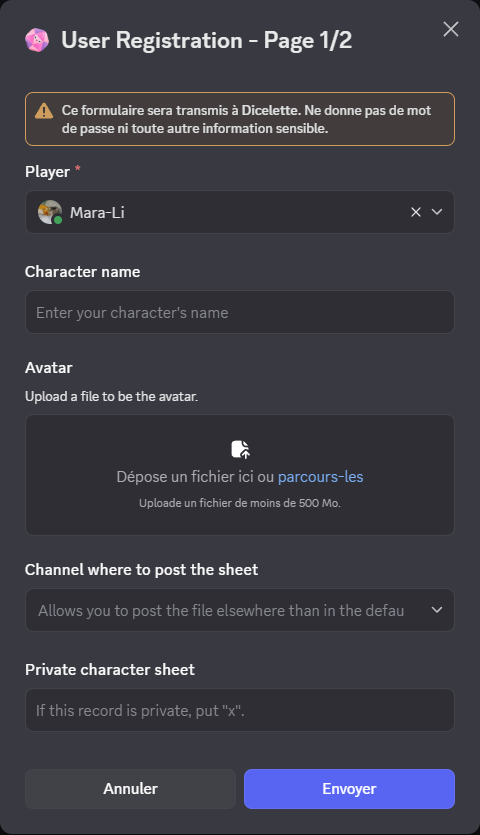
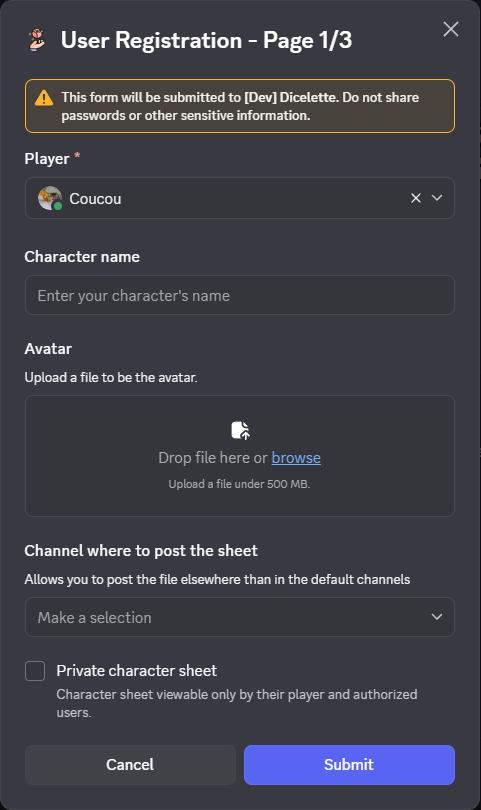
feat: add functionality to replace unknown attributes in rolls

diff --git a/en/docusaurus-plugin-content-docs/current/config/user settings/attributes.md b/en/docusaurus-plugin-content-docs/current/config/user settings/attributes.md
@@ -101,5 +101,27 @@ By default, the data is merged. If two attributes have the same name, the import
 During import, the attributes are validated and only those that comply will be added.
 
 ![](../../assets/attributes/import_1.png)
-
 ![](../../assets/attributes/import_2.png)
+
+# Replace unknown attributes
+
+Allow to replace the unknown attributes in the rolls by a specific value.
+
+:::usage
+**`/user_config attributes replace_unknown (value)`**
+- `value`: Value to replace the unknown attributes
+:::
+
+To disable the replacement, simply reuse the command without providing a value.
+
+It is possible to use dice or other attributes, as long as they are recognized in future rolls.
+
+:::info
+This settings is not verified when saving.
+:::
+
+:::warning[This option doesn't work with:]
+- `/dbroll` when the roll is linked to a **character sheet** (especially in **expressions**).
+- `/macro` when the macro is linked to a statistic.
+- `/calc`
+:::